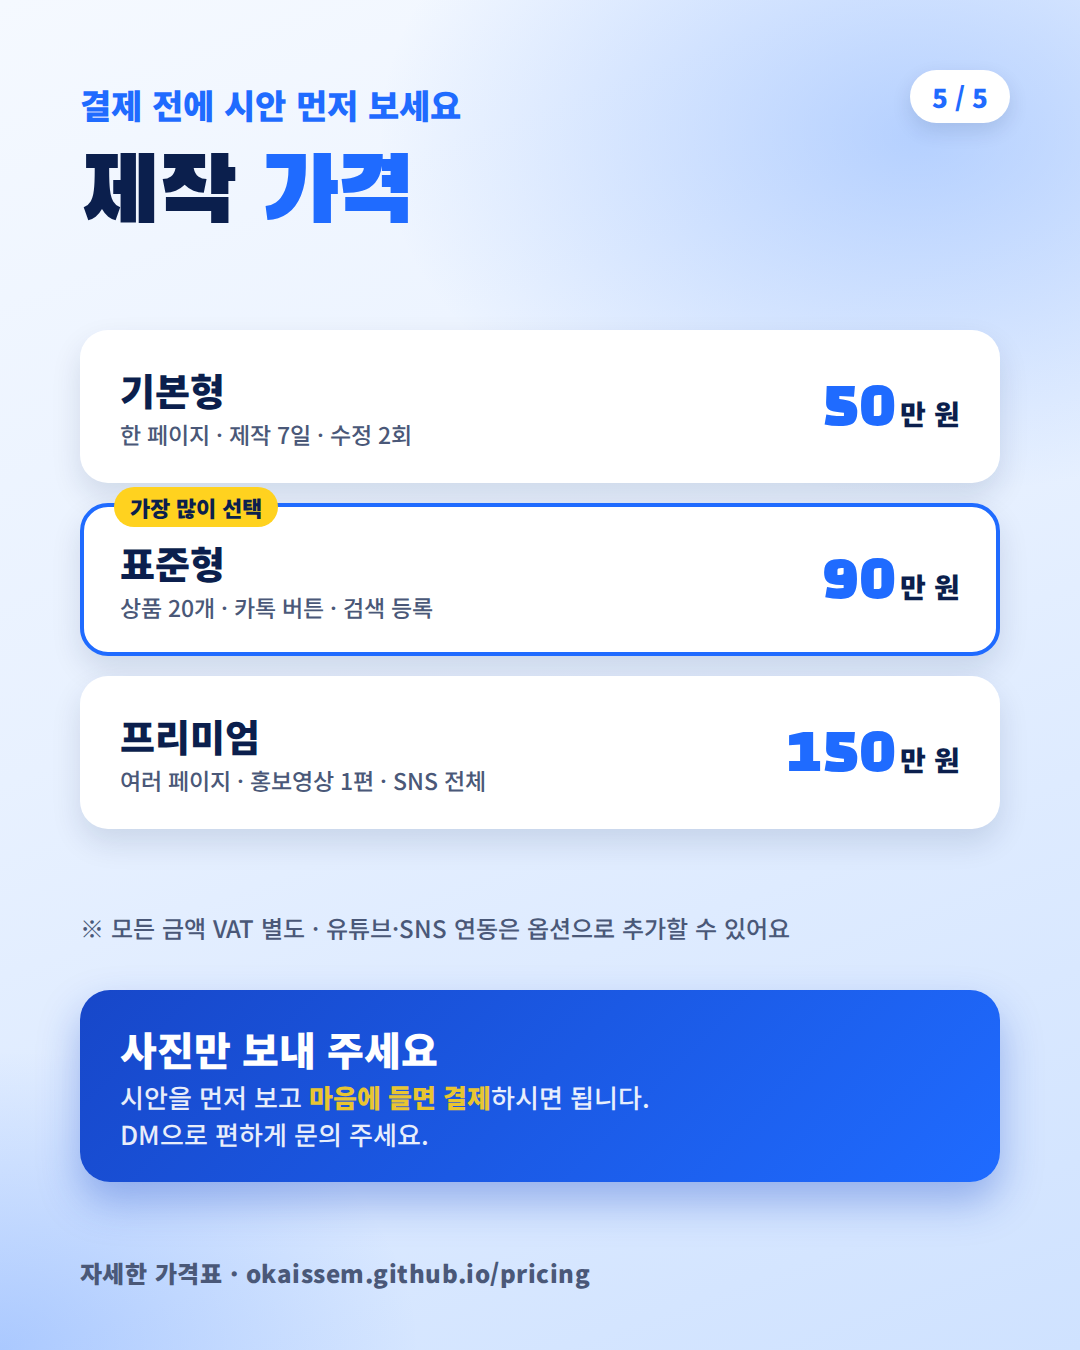
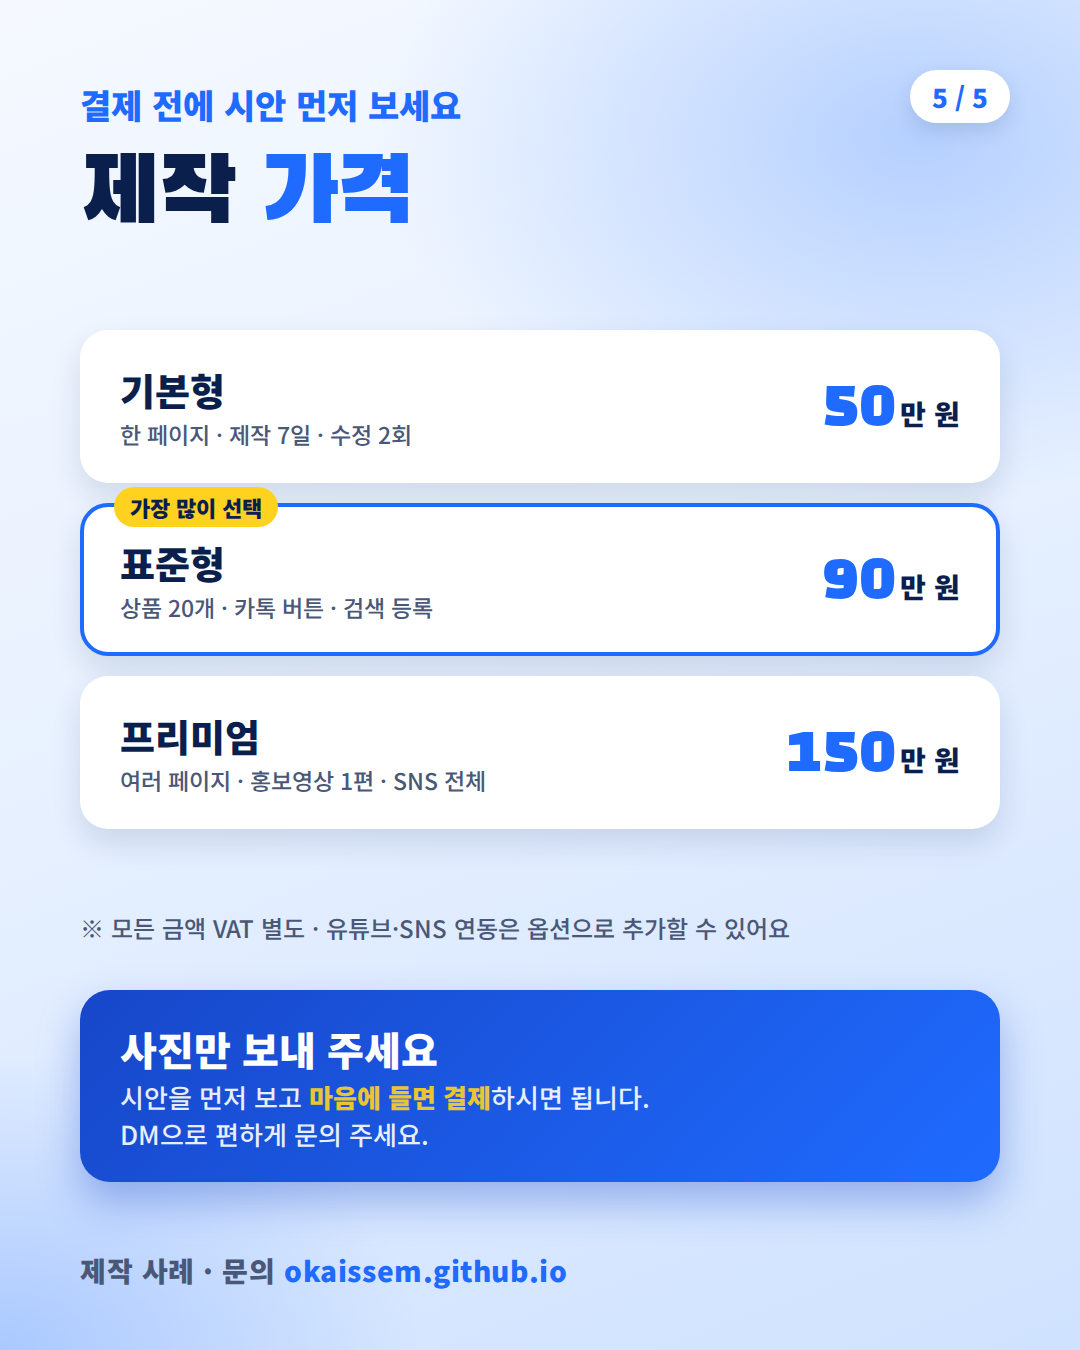
카드뉴스 5장: 마지막 주소를 첫 화면(okaissem.github.io)으로 변경
Claude-Session: https://claude.ai/code/session_018yJiFGJgxk1DkdrAWT39yC

Changed region(s): [[0.0611, 0.9333, 0.55, 0.9644]]

diff --git a/cardnews/src/cardnews.html b/cardnews/src/cardnews.html
@@ -263,7 +263,7 @@
     <b>사진만 보내 주세요</b>
     <span>시안을 먼저 보고 <em>마음에 들면 결제</em>하시면 됩니다.<br />DM으로 편하게 문의 주세요.</span>
   </div>
-  <div class="brand">자세한 가격표 · okaissem.github.io/pricing</div>
+  <div class="brand" style="font-size:28px">제작 사례 · 문의 <b style="color:var(--blue)">okaissem.github.io</b></div>
 </section>
 
 </body>
